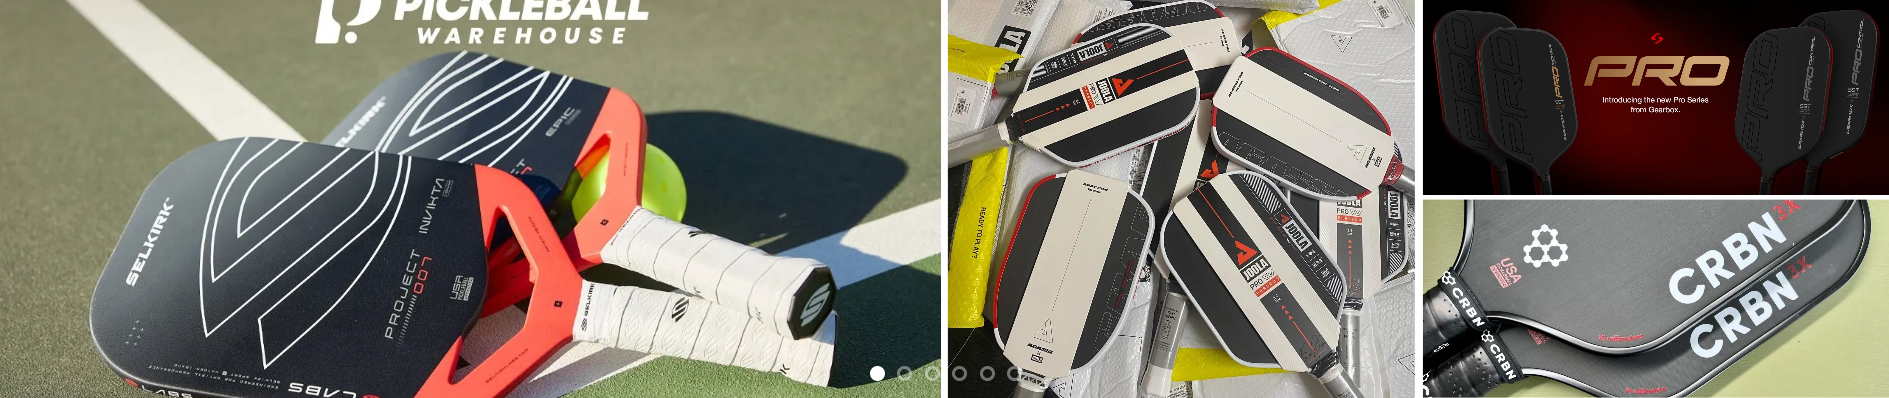
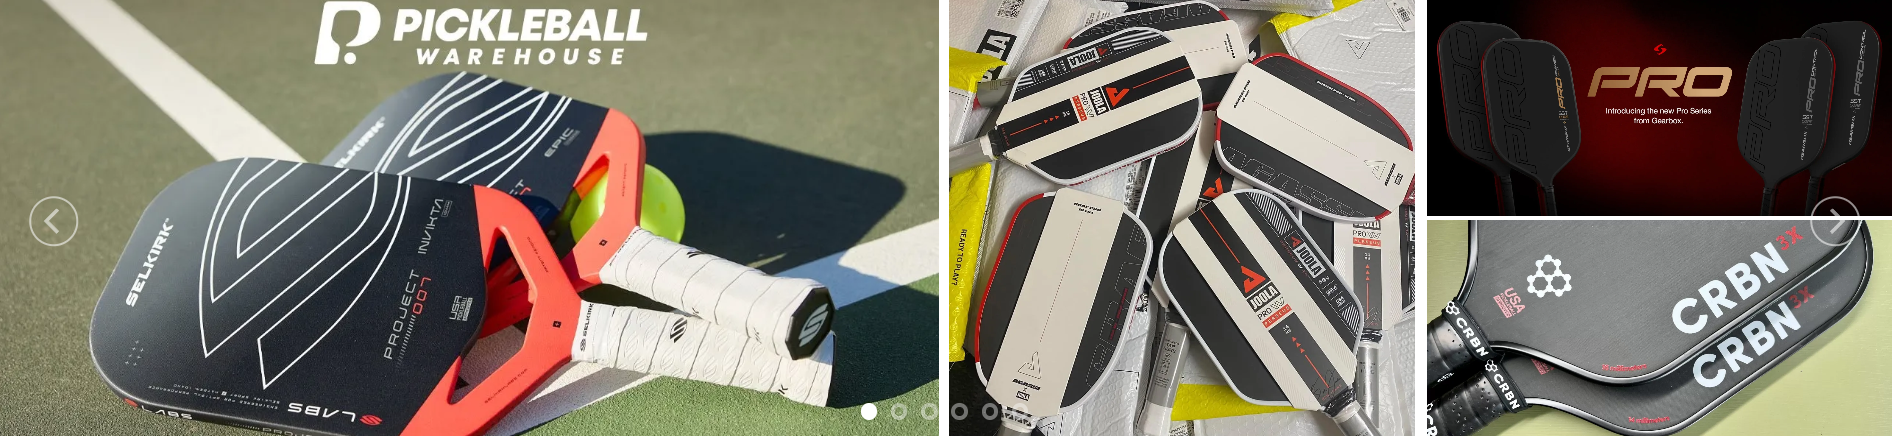
Day 21

Changed region(s): [[0.0, 0.0, 1.0, 1.0], [0.0, 0.4523, 0.0312, 0.5427], [0.937, 0.392, 0.9682, 0.4221]]

diff --git a/BTL Javascript/BTL.html b/BTL Javascript/BTL.html
@@ -37,7 +37,7 @@
             </div>
             <div class="carousel-container">
                 <div class="carousel-slides">
-                    <img src="pickleball.png" alt="Image 1">
+                    <img src="pickleball.png" alt="Image 1" href="">
                     <img src="https://authentic-shoes.com/wp-content/uploads/2025/01/the-north--scaled.webp"
                         alt="Image 2">
                     <img src="https://authentic-shoes.com/wp-content/uploads/2024/12/Giay-Nau.webp" alt="Image 3">
@@ -151,33 +151,96 @@
         </div>
         <div class="article">
             <div class="product">
-                <img src="https://authentic-shoes.com/wp-content/uploads/2025/04/3A0S25B932-JET_MACH_PKL_MEN-7002.png"
-                    alt="ảnh 4" height="150px" width="300px" class="hinh-giay">
+                <img src="https://authentic-shoes.com/wp-content/uploads/2024/12/618XlKgHnwL._AC_UF10001000_QL80.png"
+                    alt="ảnh 5" height="150px" width="300px" class="hinh-giay">
                 <u>Babolat Jet Mach</u>
                 <p>Giày Babolat Jet Mach ‘Fluo Yellow’ 3A0S25B932-7002</p>
                 <b>4,900,000 ₫</b>
             </div>
             <div class="product">
-                <img src="https://authentic-shoes.com/wp-content/uploads/2025/04/3A0S25B932-JET_MACH_PKL_MEN-7002.png"
-                    alt="ảnh 4" height="150px" width="300px" class="hinh-giay">
+                <img src="https://authentic-shoes.com/wp-content/uploads/2024/08/47sma0101-rs7-sub1.2024011801584-600x306.png"
+                    alt="ảnh 6" height="150px" width="300px" class="hinh-giay">
                 <u>Babolat Jet Mach</u>
                 <p>Giày Babolat Jet Mach ‘Fluo Yellow’ 3A0S25B932-7002</p>
                 <b>4,900,000 ₫</b>
             </div>
             <div class="product">
-                <img src="https://authentic-shoes.com/wp-content/uploads/2025/04/3A0S25B932-JET_MACH_PKL_MEN-7002.png"
-                    alt="ảnh 4" height="150px" width="300px" class="hinh-giay">
+                <img src="https://authentic-shoes.com/wp-content/uploads/2025/04/1041A522_966_SR_RT_GLB.png"
+                    alt="ảnh 7" height="150px" width="300px" class="hinh-giay">
                 <u>Babolat Jet Mach</u>
                 <p>Giày Babolat Jet Mach ‘Fluo Yellow’ 3A0S25B932-7002</p>
                 <b>4,900,000 ₫</b>
             </div>
             <div class="product">
-                <img src="https://authentic-shoes.com/wp-content/uploads/2025/04/3A0S25B932-JET_MACH_PKL_MEN-7002.png"
-                    alt="ảnh 4" height="150px" width="300px" class="hinh-giay">
+                <img src="https://authentic-shoes.com/wp-content/uploads/2025/02/246069-PNK0.png"
+                    alt="ảnh 8" height="150px" width="300px" class="hinh-giay">
                 <u>Babolat Jet Mach</u>
                 <p>Giày Babolat Jet Mach ‘Fluo Yellow’ 3A0S25B932-7002</p>
                 <b>4,900,000 ₫</b>
             </div>
+        </div>
+        <div class="all"><i>Xem tất cả ></i></div>
+        <hr class="gray-hr">
+        <div class="nav-1">
+            <b>Thương Hiệu Nổi Bật</b>
+            <p>Mặt hàng giày các thương hiệu nổi bật</p>
+        </div>
+        <div class="product-list">
+            <div class="product-list-content"><img src="https://authentic-shoes.com/wp-content/uploads/2025/01/Giay_Samba-authentic-Shoes.png" alt="ảnh 1" height="100px" width="230px" class="product-list-img">
+                <p>Adidas</p>
+            </div>
+            <div class="product-list-content"><img src="https://authentic-shoes.com/wp-content/uploads/2025/01/Giay_yeezy_350_chinh_hang-.png" alt="ảnh 2" height="100px" width="230px" class="product-list-img">
+                <p>Yeezy 350</p>
+            </div>
+            <div class="product-list-content">
+                <img src="https://authentic-shoes.com/wp-content/uploads/2025/01/Nike_Dunk_Low-removebg.png" alt="ảnh 3" height="100px" width="230px" class="product-list-img">
+                <p>Nike</p>
+            </div>
+            <div class="product-list-content">
+                <img src="https://authentic-shoes.com/wp-content/uploads/2025/01/Giay_Jordan_1_low_chinh_hang-removebg.png" alt="ảnh 4" height="100px" width="230px" class="product-list-img">
+                <p>Jordan 1</p>  
+            </div>
+            <div class="product-list-content">
+                <img src="https://authentic-shoes.com/wp-content/uploads/2025/01/Yeezy-Slide-.png" alt="ảnh 5" height="100px" width="230px"
+                class="product-list-img">
+                <p>Yeezy Slide</p>
+            </div> 
+        </div>
+        <div class="product-list">
+            <div class="product-list-content"><img src="https://authentic-shoes.com/wp-content/uploads/2025/01/air-force-1.png" alt="ảnh 1" height="100px" width="230px" class="product-list-img">
+                <p>Air Force 1</p>
+            </div>
+            <div class="product-list-content"><img src="https://authentic-shoes.com/wp-content/uploads/2024/01/Giay-New-Balance-530-Retro-Runni-removebg-preview-300x137.png" alt="ảnh 2" height="100px" width="230px" class="product-list-img">
+                <p>New Balance</p>
+            </div>
+            <div class="product-list-content">
+                <img src="https://authentic-shoes.com/wp-content/uploads/2024/12/FN4735_101.png.webp" alt="ảnh 3" height="100px" width="230px" class="product-list-img">
+                <p>Pickedball/p>
+            </div>
+            <div class="product-list-content">
+                <img src="https://authentic-shoes.com/wp-content/uploads/2025/01/Giay_Onit-removebg.png" alt="ảnh 4" height="100px" width="230px" class="product-list-img">
+                <p>Onitsuka Tiger</p>  
+            </div>
+            <div class="product-list-content">
+                <img src="https://authentic-shoes.com/wp-content/uploads/2025/01/Giay-bong-ro-Nike.png" alt="ảnh 5" height="100px" width="230px"
+                class="product-list-img">
+                <p>Bóng rổ Nike</p>
+            </div> 
+        </div>
+        <div class="product-list" id="low">
+            <div class="product-list-content"><img src="https://authentic-shoes.com/wp-content/uploads/2024/01/Screenshot-2023-09-11-at-14.59.4-removebg-preview-300x159.png" alt="ảnh 1" height="100px" width="230px" class="product-list-img">
+                <p>Air Force 1</p>
+            </div>
+            <div class="product-list-content"><img src="https://authentic-shoes.com/wp-content/uploads/2025/01/Giay-Asics-.png" alt="ảnh 2" height="100px" width="230px" class="product-list-img">
+                <p>New Balance</p>
+            </div>
+            <div class="product-list-content">
+                <img src="https://authentic-shoes.com/wp-content/uploads/2024/01/nike-kobe-6-protro-reverse-grinc-removebg-preview-300x149.png" alt="ảnh 3" height="100px" width="230px" class="product-list-img">
+                <p>Pickedball</p>
+            </div>
+            </div>
+            <img src="https://authentic-shoes.com/wp-content/uploads/2025/06/BABOLAT_2024_2025_209-2-1.webp" alt="ảnh chùm" height="400px"
+            width="1500px"> 
         </div>
     </div>
 </body>

diff --git a/BTL Javascript/style.css b/BTL Javascript/style.css
@@ -17,10 +17,10 @@
     display: flex;
     align-items: center;
     justify-content: space-between;
+    position: sticky;
     padding: 10px 180px;
     border-bottom: 1px solid #ddd;
     height: 60px;
-    
   }
   
   .menu {
@@ -116,25 +116,31 @@
 }
 
 .carousel-dots {
-    text-align: center;
-    padding: 10px 0;
-    background-color: #f1f1f1;
+  position: absolute; /* Đưa nó nổi lên trên ảnh */
+  bottom: 20px; /* Khoảng cách so với đáy ảnh */
+  left: 50%;
+  transform: translateX(-50%);
+  background-color: transparent; /* bỏ nền */
+  padding: 5px 10px;
+  border-radius: 20px;
+  z-index: 10;
 }
 
 .dot {
-    height: 12px;
-    width: 12px;
-    margin: 0 5px;
-    background-color: #bbb;
-    border-radius: 50%;
-    display: inline-block;
-    cursor: pointer;
-    transition: background-color 0.3s ease;
+  height: 10px;
+  width: 10px;
+  margin: 0 4px;
+  background-color: rgba(255, 255, 255, 0.5); /* chấm mờ màu trắng */
+  border-radius: 50%;
+  display: inline-block;
+  cursor: pointer;
+  transition: background-color 0.3s ease;
 }
 
 .dot.active, .dot:hover {
-    background-color: #717171;
-  }
+  background-color: rgba(255, 255, 255, 0.9); /* sáng hơn khi hover hoặc active */
+}
+
 
 .menu-button {
   display: flex;
@@ -157,21 +163,21 @@
 .gray-hr {
   border: none;
   border: 1px solid #ccc;
-  max-width: 1200px;
+  max-width: 1300px;
   margin-top: 10px;
 }
 
 .nav {
-  padding-left: 400px;
-  padding-right:400px;
+  padding-left: 20px;
+  padding-right: 20px;
 }
 .tennis {
-  font-size: 17px;
+  font-size: 18px;
   padding-top: 40px;
   padding-left: 0;
 }
 .tennis-content {
-  font-size: 17px;
+  font-size: 18px;
   font-weight: 500;
   padding-top: 20px;
   }
@@ -203,4 +209,46 @@ color:rgb(97, 97, 255);
   padding-bottom:70px ;
   padding-right:31px;
   padding-left:31px;
+}
+.all {
+  display:flex;
+  justify-content: center;
+  align-items: center;
+  border: 1px solid black;
+  height: 53px;
+  width: 190px;
+  margin-left: 670px;
+  border-radius:12px;
+  font-family: Arial, Helvetica, sans-serif;
+  margin-bottom: 50px;
+}
+.all:hover {
+  background-color: #090909;
+  color: white;
+  transition: background-color 1s ease;
+  transition: color 0,7s ease;
+}
+.nav-1 {
+  padding-left: 120px;
+  padding-top: 60px;
+
+}
+
+.product-list {
+  display: flex;
+  justify-content: center;
+  align-items: center;
+  gap:5px;
+}
+.product-list-img {
+  background-color: #eeeded;
+  padding: 10px;
+  border-radius: 15px;
+}
+.product-list-content p {
+display: flex;
+justify-content: center;
+}
+#low {
+  padding-right: 500px;
 }
